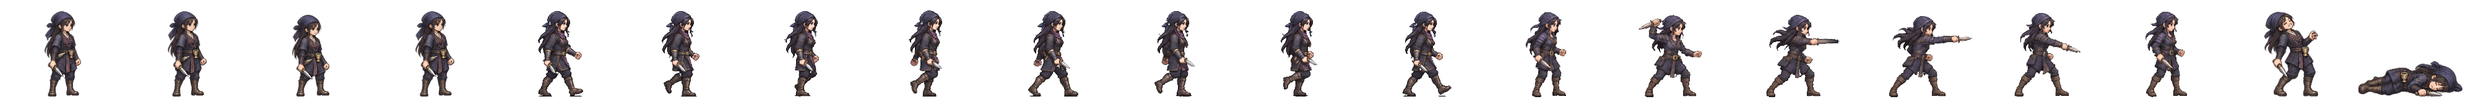
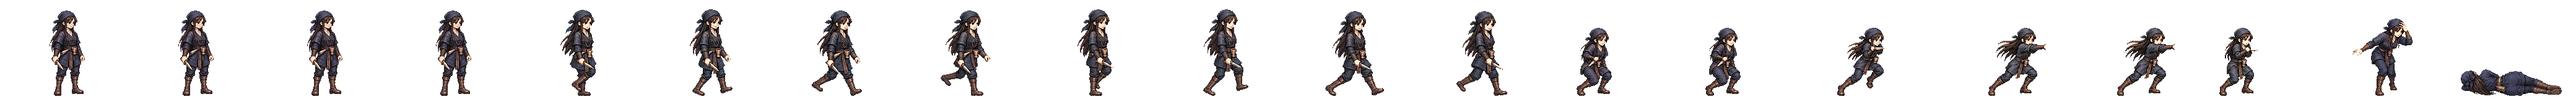
갠내 · 독무덤 · 연회 첩자 새 전투 띠를 게임에 (그림 API · 단검 · 찌르기 · 맞음 네 칸 · 개성 동작) · Codex 걷기 다시 판은 윗몸이 튀어 앞 판을 씀 · 인수인계
Claude-Session: https://claude.ai/code/session_01TRiuN7s6aDfSnaHxrkctmU

diff --git a/src/realm/data/spritePx.ts b/src/realm/data/spritePx.ts
@@ -1,3 +1,3 @@
 /** public/realm/anim-px/manifest.json 의 사본 — tools/sprite-normalize.mjs 가 만든다 (손으로 고치지 말 것). 칸 [가로, 세로] · feet = 발 줄(칸 위에서 y) · bodyPx = 서 있는 몸 키 */
 import { expandManifest } from './sprite-manifest.ts'
-export const SPRITE_PX: Readonly<Record<string, { readonly cell: readonly [number, number]; readonly feet: number; readonly bodyPx: number; readonly kind: 'general' | 'soldier' | 'folk' | 'crowd'; readonly cells: number }>> = expandManifest<{ readonly cell: readonly [number, number]; readonly feet: number; readonly bodyPx: number; readonly kind: 'general' | 'soldier' | 'folk' | 'crowd'; readonly cells: number }>([{"cell":[166,128],"feet":126,"bodyPx":124,"kind":"soldier","cells":20},{"cell":[116,128],"feet":126,"bodyPx":117,"kind":"soldier","cells":20},{"cell":[127,128],"feet":126,"bodyPx":116,"kind":"soldier","cells":20},{"cell":[269,128],"feet":126,"bodyPx":126,"kind":"soldier","cells":20},{"cell":[503,128],"feet":126,"bodyPx":127,"kind":"soldier","cells":20},{"cell":[614,128],"feet":126,"bodyPx":126,"kind":"soldier","cells":20},{"cell":[200,160],"feet":156,"bodyPx":138,"kind":"general","cells":20},{"cell":[208,160],"feet":155,"bodyPx":138,"kind":"general","cells":20},{"cell":[208,160],"feet":154,"bodyPx":138,"kind":"general","cells":20},{"cell":[304,160],"feet":155,"bodyPx":135,"kind":"general","cells":20},{"cell":[184,160],"feet":156,"bodyPx":138,"kind":"general","cells":20},{"cell":[208,160],"feet":154,"bodyPx":136,"kind":"general","cells":20},{"cell":[232,160],"feet":156,"bodyPx":138,"kind":"general","cells":20},{"cell":[208,160],"feet":156,"bodyPx":138,"kind":"general","cells":20},{"cell":[168,160],"feet":156,"bodyPx":124,"kind":"general","cells":20},{"cell":[216,160],"feet":156,"bodyPx":130,"kind":"general","cells":20},{"cell":[200,160],"feet":156,"bodyPx":116,"kind":"general","cells":20},{"cell":[192,160],"feet":156,"bodyPx":138,"kind":"general","cells":20},{"cell":[208,160],"feet":154,"bodyPx":135,"kind":"general","cells":20},{"cell":[280,160],"feet":156,"bodyPx":138,"kind":"general","cells":20},{"cell":[232,160],"feet":156,"bodyPx":134,"kind":"general","cells":20},{"cell":[144,160],"feet":156,"bodyPx":70,"kind":"general","cells":20},{"cell":[208,160],"feet":156,"bodyPx":70,"kind":"general","cells":20},{"cell":[192,160],"feet":156,"bodyPx":70,"kind":"general","cells":20},{"cell":[240,160],"feet":155,"bodyPx":138,"kind":"general","cells":20},{"cell":[160,160],"feet":156,"bodyPx":135,"kind":"general","cells":20},{"cell":[192,160],"feet":156,"bodyPx":128,"kind":"general","cells":20},{"cell":[224,160],"feet":155,"bodyPx":138,"kind":"general","cells":20},{"cell":[216,160],"feet":156,"bodyPx":138,"kind":"general","cells":20},{"cell":[208,160],"feet":156,"bodyPx":134,"kind":"general","cells":20},{"cell":[208,160],"feet":154,"bodyPx":130,"kind":"general","cells":20},{"cell":[248,160],"feet":156,"bodyPx":138,"kind":"general","cells":20},{"cell":[248,160],"feet":155,"bodyPx":138,"kind":"general","cells":20},{"cell":[192,160],"feet":155,"bodyPx":138,"kind":"general","cells":20},{"cell":[192,160],"feet":156,"bodyPx":124,"kind":"general","cells":20},{"cell":[208,160],"feet":154,"bodyPx":131,"kind":"general","cells":20},{"cell":[256,160],"feet":156,"bodyPx":138,"kind":"general","cells":20},{"cell":[240,160],"feet":156,"bodyPx":138,"kind":"general","cells":20},{"cell":[232,160],"feet":156,"bodyPx":139,"kind":"general","cells":20},{"cell":[232,160],"feet":156,"bodyPx":73,"kind":"general","cells":20},{"cell":[208,160],"feet":154,"bodyPx":137,"kind":"general","cells":20},{"cell":[264,160],"feet":156,"bodyPx":138,"kind":"general","cells":20},{"cell":[224,160],"feet":156,"bodyPx":138,"kind":"general","cells":20},{"cell":[224,160],"feet":156,"bodyPx":128,"kind":"general","cells":20},{"cell":[176,160],"feet":156,"bodyPx":129,"kind":"general","cells":20},{"cell":[208,160],"feet":154,"bodyPx":139,"kind":"general","cells":20},{"cell":[232,160],"feet":155,"bodyPx":138,"kind":"general","cells":20},{"cell":[208,160],"feet":156,"bodyPx":132,"kind":"general","cells":20},{"cell":[184,160],"feet":156,"bodyPx":122,"kind":"general","cells":20},{"cell":[280,160],"feet":155,"bodyPx":133,"kind":"general","cells":20},{"cell":[176,160],"feet":156,"bodyPx":70,"kind":"general","cells":20},{"cell":[186,128],"feet":126,"bodyPx":127,"kind":"soldier","cells":20},{"cell":[298,128],"feet":126,"bodyPx":126,"kind":"soldier","cells":20},{"cell":[82,128],"feet":126,"bodyPx":114,"kind":"folk","cells":8},{"cell":[134,128],"feet":126,"bodyPx":119,"kind":"soldier","cells":20},{"cell":[380,128],"feet":126,"bodyPx":124,"kind":"soldier","cells":20},{"cell":[114,128],"feet":126,"bodyPx":115,"kind":"soldier","cells":20},{"cell":[122,128],"feet":126,"bodyPx":114,"kind":"soldier","cells":20},{"cell":[254,128],"feet":126,"bodyPx":128,"kind":"soldier","cells":20},{"cell":[438,128],"feet":126,"bodyPx":126,"kind":"soldier","cells":20},{"cell":[88,128],"feet":126,"bodyPx":113,"kind":"folk","cells":8},{"cell":[100,128],"feet":126,"bodyPx":115,"kind":"folk","cells":8},{"cell":[108,128],"feet":126,"bodyPx":115,"kind":"folk","cells":8},{"cell":[63,128],"feet":126,"bodyPx":113,"kind":"folk","cells":8},{"cell":[69,96],"feet":96,"bodyPx":96,"kind":"crowd","cells":1},{"cell":[54,96],"feet":96,"bodyPx":96,"kind":"crowd","cells":1},{"cell":[47,96],"feet":96,"bodyPx":96,"kind":"crowd","cells":1},{"cell":[49,96],"feet":96,"bodyPx":96,"kind":"crowd","cells":1},{"cell":[57,96],"feet":96,"bodyPx":96,"kind":"crowd","cells":1},{"cell":[55,96],"feet":96,"bodyPx":96,"kind":"crowd","cells":1},{"cell":[45,96],"feet":96,"bodyPx":96,"kind":"crowd","cells":1},{"cell":[53,96],"feet":96,"bodyPx":96,"kind":"crowd","cells":1},{"cell":[64,96],"feet":96,"bodyPx":96,"kind":"crowd","cells":1},{"cell":[184,160],"feet":156,"bodyPx":124,"kind":"general","cells":20},{"cell":[208,160],"feet":154,"bodyPx":134,"kind":"general","cells":20},{"cell":[224,160],"feet":156,"bodyPx":133,"kind":"general","cells":20},{"cell":[192,160],"feet":156,"bodyPx":135,"kind":"general","cells":20},{"cell":[184,160],"feet":156,"bodyPx":137,"kind":"general","cells":20},{"cell":[176,160],"feet":156,"bodyPx":130,"kind":"general","cells":20},{"cell":[216,160],"feet":156,"bodyPx":134,"kind":"general","cells":20},{"cell":[216,160],"feet":156,"bodyPx":132,"kind":"general","cells":20},{"cell":[288,160],"feet":156,"bodyPx":138,"kind":"general","cells":20},{"cell":[192,160],"feet":156,"bodyPx":118,"kind":"general","cells":20},{"cell":[208,160],"feet":154,"bodyPx":128,"kind":"general","cells":20},{"cell":[240,160],"feet":156,"bodyPx":128,"kind":"general","cells":20},{"cell":[184,160],"feet":156,"bodyPx":132,"kind":"general","cells":20},{"cell":[208,160],"feet":156,"bodyPx":123,"kind":"general","cells":20},{"cell":[176,160],"feet":156,"bodyPx":116,"kind":"general","cells":20},{"cell":[272,160],"feet":156,"bodyPx":138,"kind":"general","cells":20},{"cell":[176,160],"feet":156,"bodyPx":138,"kind":"general","cells":20},{"cell":[176,160],"feet":156,"bodyPx":122,"kind":"general","cells":20},{"cell":[232,160],"feet":156,"bodyPx":127,"kind":"general","cells":20},{"cell":[184,160],"feet":156,"bodyPx":134,"kind":"general","cells":20},{"cell":[168,160],"feet":156,"bodyPx":138,"kind":"general","cells":20},{"cell":[176,160],"feet":156,"bodyPx":137,"kind":"general","cells":20},{"cell":[184,160],"feet":156,"bodyPx":133,"kind":"general","cells":20}],[["axe",0],["bandit-chief",1],["bandit-club",2],["boat",3],["bow",4],["crossbow",5],["gen-adogan",6],["gen-alpyeong",7],["gen-ara",8],["gen-areum",8],["gen-aryeong",9],["gen-bakdal",8],["gen-baram",8],["gen-bdanbi",10],["gen-beom",11],["gen-beombal",8],["gen-beomi",8],["gen-bira",12],["gen-biryu",13],["gen-budeul",8],["gen-byeol",8],["gen-daemusin",14],["gen-daeso",15],["gen-dallae2",10],["gen-dalli",8],["gen-damul",16],["gen-danbi",8],["gen-dangung",17],["gen-darae",18],["gen-dokmudeom",7],["gen-duman",19],["gen-eomni",8],["gen-eureum",20],["gen-g-bow",21],["gen-g-spear",22],["gen-g-sword",23],["gen-gaennae",6],["gen-gamsil",24],["gen-gaon",25],["gen-geota",13],["gen-geumbawi",10],["gen-geumha",26],["gen-goeun",13],["gen-gom",27],["gen-gomok",13],["gen-gureum",8],["gen-guryema",17],["gen-gwaeyu",12],["gen-haebi",8],["gen-haedal",6],["gen-haesol",8],["gen-halla",7],["gen-heo",8],["gen-hneoul",10],["gen-hogong",28],["gen-hojin",13],["gen-horselord",29],["gen-hwalmi",30],["gen-hyeokgeose",17],["gen-hyeopbo",6],["gen-irang",8],["gen-jibaekho",31],["gen-jinha",32],["gen-jita",33],["gen-jumong",34],["gen-keundol",7],["gen-maehwa",35],["gen-maenun",17],["gen-malgalgi",36],["gen-mari",37],["gen-maro",31],["gen-maryeo",13],["gen-mdallae",38],["gen-mir",6],["gen-mount",39],["gen-mulbeom",40],["gen-mulsae",40],["gen-musoe",28],["gen-noeul",8],["gen-nuri",41],["gen-ocheongan",42],["gen-odi",8],["gen-odogan",6],["gen-ogan",17],["gen-oi",43],["gen-olddaeso",20],["gen-onjo",44],["gen-pidogan",13],["gen-sagong",45],["gen-sdallae",6],["gen-sincheongan",28],["gen-singwigan",28],["gen-sinneoul",8],["gen-sobeol",46],["gen-soebi",6],["gen-soebo",47],["gen-soenun",45],["gen-sogeumbi",40],["gen-songbi",42],["gen-songyang",48],["gen-sori",8],["gen-soseono",49],["gen-suro",17],["gen-tahae",6],["gen-tneoul",8],["gen-w-bow",21],["gen-w-spear",50],["gen-waechief",13],["gen-wan",28],["gen-yeodogan",13],["gen-yucheongan",13],["gen-yusugan",31],["horse",51],["marine",52],["migrant",53],["militia",54],["pike",55],["pirate-captain",56],["pirate-sword",57],["shield",58],["spear",59],["villager-builder",60],["villager-farmer",61],["villager-porter",62],["villager-woman",63],["crowd-b1",64],["crowd-b2",65],["crowd-b3",66],["crowd-b4",67],["crowd-b5",68],["crowd-b6",69],["crowd-f1",64],["crowd-f2",69],["crowd-f3",70],["crowd-f4",71],["crowd-f5",64],["crowd-f6",72],["gen-dalbit",13],["gen-base-g-07-drunk-warrior",17],["gen-base-g-40-anya-adan",13],["gen-base-w-13-young-archer",8],["gen-base-g-03-sea-trader",37],["gen-base-w-10-pirate-captain",45],["gen-base-w-64-miri-dallae",45],["gen-base-g-41-goja-bau",37],["gen-base-g-42-dokro-garam",41],["gen-base-g-09-farmer-conscript",28],["gen-base-w-02-goguryeo-lady",28],["gen-base-w-17-mahan-pearl-diver",8],["gen-base-g-17-saro-isageum",47],["gen-base-g-18-daegaya-king",73],["gen-base-g-35-dabeol-dalgu",13],["gen-base-g-19-sabeol-veteran",28],["gen-base-w-23-usisan-whale-queen",8],["gen-base-g-36-gammun-gamdol",42],["gen-base-g-20-samul-sea-lord",36],["gen-base-g-37-eumjeup-jeup",10],["gen-base-g-38-chopal-palmae",17],["gen-base-w-75-daegaya-soemoe",17],["gen-base-g-45-dabeol-deulgae",10],["gen-base-g-04-jinhan-giant",13],["gen-base-g-08-veteran",13],["gen-base-w-18-jinhan-salt-widow",8],["gen-base-w-12-court-dancer",74],["gen-base-w-83-gyeonji-beodeul",75],["gen-base-w-05-baekje-queen",76],["gen-base-w-21-baekje-court-dancer",10],["gen-base-g-01-master-smith",77],["gen-base-g-93-jomun-solgae",78],["gen-base-g-57-bihwa-neup",37],["gen-base-w-72-eumjeup-beol",8],["gen-base-w-102-garak-dana",45],["gen-base-g-68-baekje-onnuri",13],["gen-base-w-27-mokji-jinha",6],["gen-base-g-22-ungcheon-gomnae",6],["gen-base-g-23-sangdang-soedal",13],["gen-base-g-24-wansan-onsan",6],["gen-base-g-25-balla-keunmoe",28],["gen-base-g-61-heomcheuk-bawi",28],["gen-base-g-88-wander-soeul",42],["gen-base-w-14-feast-spy",6],["gen-base-g-12-silla-youth",79],["gen-base-w-08-mahan-warrior",8],["gen-base-g-62-beonye-hanul",37],["gen-base-g-63-heomcheuk-beogeum",13],["gen-base-g-84-wander-seoneul",13],["gen-base-w-50-siljik-mulga",28],["gen-base-g-46-uga-nureongso",28],["gen-base-w-80-usan-gangchi",45],["gen-base-g-47-guga-sanyanggae",28],["gen-base-w-76-gampyeong-baetsagong",8],["gen-base-g-05-mahan-chieftain",80],["gen-base-g-58-usan-uhae",13],["gen-base-g-27-maek-maekdol",13],["gen-base-w-53-hwanna-gabi",45],["gen-base-w-29-golpo-janmul",31],["gen-base-g-53-baekje-haeru",6],["gen-base-w-71-yeonna-neoul",8],["gen-base-w-79-yangmaek-solmae",8],["gen-base-w-34-chopal-deulme",8],["gen-base-g-44-maga-malgup",81],["gen-base-w-31-dabeol-dalbit",45],["gen-base-g-51-biryuna-mulgyeol",42],["gen-base-g-48-gwanna-musoe",13],["gen-base-g-32-uga-sodu",12],["gen-base-g-49-goguryeo-sona",82],["gen-base-g-30-gwanna-soemoe",42],["gen-base-g-52-tamna-oreum",10],["gen-base-g-29-yeonna-myeongsol",34],["gen-base-w-56-dongokjeo-sogeum",74],["gen-base-g-54-mokji-mahan",12],["gen-base-g-33-jeoga-metdol",17],["gen-base-w-36-baekje-maena",8],["gen-base-w-38-sangdang-bulmae",6],["gen-base-w-39-gosaburi-galmae",8],["gen-base-w-40-mujin-munui",47],["gen-base-w-41-hwanna-beodeul",83],["gen-base-w-43-uga-nuri",36],["gen-base-w-45-tamna-oreumbi",10],["gen-base-g-60-golbeol-golgae",10],["gen-base-g-61-apdok-ap",28],["gen-base-g-62-gammun-gamnamu",6],["gen-base-g-63-chopal-yeoul",31],["gen-base-g-64-michuhol-sogeumkkun",37],["gen-base-g-65-sangdang-soemangchi",42],["gen-base-g-66-geonma-malbalgup",84],["gen-base-g-67-gosaburi-buri",85],["gen-base-g-68-mujin-bitgoeul",10],["gen-base-g-69-goryong-yong",42],["gen-base-g-70-siljik-pado",37],["gen-base-w-81-byeokjin-byeolbit",8],["gen-base-w-46-geonma-maru",8],["gen-base-w-48-mujin-mudeung",8],["gen-base-g-26-gampyeong-gaetbeol",12],["gen-base-g-60-eupcha-hangyeol",86],["gen-base-g-15-shaman-man",28],["gen-base-g-85-wander-ure",31],["gen-base-g-43-hwanna-amnok",13],["gen-base-g-50-bullae-gwaha",76],["gen-base-g-55-saro-bakdal",13],["gen-base-g-56-haseulla-gwahama",6],["gen-base-w-06-buyeo-huntress",40],["gen-base-w-22-dongye-tiger-huntress",8],["gen-base-w-25-bihwa-priestess",28],["gen-base-w-24-apdok-queen",10],["gen-base-w-61-iseo-sinae",13],["gen-base-w-26-iseo-tomboy-general",8],["gen-base-g-59-yangmaek-maekson",87],["gen-aw1-haebi",42],["gen-aw1-soseono",88],["gen-aw1-gamsil",10],["gen-aw1-mir",89],["gen-aw1-dangung",6],["gen-aw1-ara",42],["gen-aw1-jumong",90],["gen-aw1-onjo",91],["gen-aw1-base-w-83-gyeonji-beodeul",17],["gen-aw1-heo",41],["gen-aw1-base-g-38-chopal-palmae",6],["gen-aw1-base-w-25-bihwa-priestess",92],["gen-aw1-sori",93],["gen-aw1-gomok",6],["gen-aw1-irang",17],["gen-aw1-budeul",93],["gen-aw1-gom",37],["gen-aw1-sdallae",6],["gen-aw1-base-w-13-young-archer",6],["gen-aw1-base-w-36-baekje-maena",94],["gen-aw1-base-g-09-farmer-conscript",41],["gen-aw1-base-w-02-goguryeo-lady",95],["gen-aw1-haedal",10],["gen-aw1-hogong",6],["gen-aw1-maehwa",89],["gen-aw1-base-w-06-buyeo-huntress",12],["gen-aw1-base-w-08-mahan-warrior",42],["gen-aw1-base-w-29-golpo-janmul",42],["gen-aw1-base-w-31-dabeol-dalbit",17],["gen-aw1-base-w-38-sangdang-bulmae",93],["gen-aw1-bira",28],["gen-aw1-base-w-53-hwanna-gabi",93],["gen-aw1-base-w-56-dongokjeo-sogeum",89],["gen-aw1-base-w-72-eumjeup-beol",17],["gen-aw1-bdanbi",93],["gen-aw1-beom",10],["gen-aw1-beombal",10],["gen-aw1-byeol",17],["gen-aw1-dalli",89],["gen-aw1-malgalgi",31],["gen-aw1-sincheongan",28]])
+export const SPRITE_PX: Readonly<Record<string, { readonly cell: readonly [number, number]; readonly feet: number; readonly bodyPx: number; readonly kind: 'general' | 'soldier' | 'folk' | 'crowd'; readonly cells: number }>> = expandManifest<{ readonly cell: readonly [number, number]; readonly feet: number; readonly bodyPx: number; readonly kind: 'general' | 'soldier' | 'folk' | 'crowd'; readonly cells: number }>([{"cell":[166,128],"feet":126,"bodyPx":124,"kind":"soldier","cells":20},{"cell":[116,128],"feet":126,"bodyPx":117,"kind":"soldier","cells":20},{"cell":[127,128],"feet":126,"bodyPx":116,"kind":"soldier","cells":20},{"cell":[269,128],"feet":126,"bodyPx":126,"kind":"soldier","cells":20},{"cell":[503,128],"feet":126,"bodyPx":127,"kind":"soldier","cells":20},{"cell":[614,128],"feet":126,"bodyPx":126,"kind":"soldier","cells":20},{"cell":[200,160],"feet":156,"bodyPx":138,"kind":"general","cells":20},{"cell":[208,160],"feet":155,"bodyPx":138,"kind":"general","cells":20},{"cell":[208,160],"feet":154,"bodyPx":138,"kind":"general","cells":20},{"cell":[304,160],"feet":155,"bodyPx":135,"kind":"general","cells":20},{"cell":[184,160],"feet":156,"bodyPx":138,"kind":"general","cells":20},{"cell":[208,160],"feet":154,"bodyPx":136,"kind":"general","cells":20},{"cell":[232,160],"feet":156,"bodyPx":138,"kind":"general","cells":20},{"cell":[208,160],"feet":156,"bodyPx":138,"kind":"general","cells":20},{"cell":[168,160],"feet":156,"bodyPx":124,"kind":"general","cells":20},{"cell":[216,160],"feet":156,"bodyPx":130,"kind":"general","cells":20},{"cell":[200,160],"feet":156,"bodyPx":116,"kind":"general","cells":20},{"cell":[192,160],"feet":156,"bodyPx":138,"kind":"general","cells":20},{"cell":[208,160],"feet":154,"bodyPx":135,"kind":"general","cells":20},{"cell":[280,160],"feet":156,"bodyPx":138,"kind":"general","cells":20},{"cell":[232,160],"feet":156,"bodyPx":134,"kind":"general","cells":20},{"cell":[144,160],"feet":156,"bodyPx":70,"kind":"general","cells":20},{"cell":[208,160],"feet":156,"bodyPx":70,"kind":"general","cells":20},{"cell":[192,160],"feet":156,"bodyPx":70,"kind":"general","cells":20},{"cell":[240,160],"feet":155,"bodyPx":138,"kind":"general","cells":20},{"cell":[160,160],"feet":156,"bodyPx":135,"kind":"general","cells":20},{"cell":[192,160],"feet":156,"bodyPx":128,"kind":"general","cells":20},{"cell":[224,160],"feet":155,"bodyPx":138,"kind":"general","cells":20},{"cell":[216,160],"feet":156,"bodyPx":138,"kind":"general","cells":20},{"cell":[208,160],"feet":156,"bodyPx":134,"kind":"general","cells":20},{"cell":[208,160],"feet":154,"bodyPx":130,"kind":"general","cells":20},{"cell":[248,160],"feet":156,"bodyPx":138,"kind":"general","cells":20},{"cell":[248,160],"feet":155,"bodyPx":138,"kind":"general","cells":20},{"cell":[192,160],"feet":155,"bodyPx":138,"kind":"general","cells":20},{"cell":[192,160],"feet":156,"bodyPx":124,"kind":"general","cells":20},{"cell":[208,160],"feet":154,"bodyPx":131,"kind":"general","cells":20},{"cell":[256,160],"feet":156,"bodyPx":138,"kind":"general","cells":20},{"cell":[240,160],"feet":156,"bodyPx":138,"kind":"general","cells":20},{"cell":[232,160],"feet":156,"bodyPx":139,"kind":"general","cells":20},{"cell":[232,160],"feet":156,"bodyPx":73,"kind":"general","cells":20},{"cell":[208,160],"feet":154,"bodyPx":137,"kind":"general","cells":20},{"cell":[264,160],"feet":156,"bodyPx":138,"kind":"general","cells":20},{"cell":[224,160],"feet":156,"bodyPx":138,"kind":"general","cells":20},{"cell":[224,160],"feet":156,"bodyPx":128,"kind":"general","cells":20},{"cell":[176,160],"feet":156,"bodyPx":129,"kind":"general","cells":20},{"cell":[208,160],"feet":154,"bodyPx":139,"kind":"general","cells":20},{"cell":[232,160],"feet":155,"bodyPx":138,"kind":"general","cells":20},{"cell":[208,160],"feet":156,"bodyPx":132,"kind":"general","cells":20},{"cell":[184,160],"feet":156,"bodyPx":122,"kind":"general","cells":20},{"cell":[280,160],"feet":155,"bodyPx":133,"kind":"general","cells":20},{"cell":[176,160],"feet":156,"bodyPx":70,"kind":"general","cells":20},{"cell":[186,128],"feet":126,"bodyPx":127,"kind":"soldier","cells":20},{"cell":[298,128],"feet":126,"bodyPx":126,"kind":"soldier","cells":20},{"cell":[82,128],"feet":126,"bodyPx":114,"kind":"folk","cells":8},{"cell":[134,128],"feet":126,"bodyPx":119,"kind":"soldier","cells":20},{"cell":[380,128],"feet":126,"bodyPx":124,"kind":"soldier","cells":20},{"cell":[114,128],"feet":126,"bodyPx":115,"kind":"soldier","cells":20},{"cell":[122,128],"feet":126,"bodyPx":114,"kind":"soldier","cells":20},{"cell":[254,128],"feet":126,"bodyPx":128,"kind":"soldier","cells":20},{"cell":[438,128],"feet":126,"bodyPx":126,"kind":"soldier","cells":20},{"cell":[88,128],"feet":126,"bodyPx":113,"kind":"folk","cells":8},{"cell":[100,128],"feet":126,"bodyPx":115,"kind":"folk","cells":8},{"cell":[108,128],"feet":126,"bodyPx":115,"kind":"folk","cells":8},{"cell":[63,128],"feet":126,"bodyPx":113,"kind":"folk","cells":8},{"cell":[69,96],"feet":96,"bodyPx":96,"kind":"crowd","cells":1},{"cell":[54,96],"feet":96,"bodyPx":96,"kind":"crowd","cells":1},{"cell":[47,96],"feet":96,"bodyPx":96,"kind":"crowd","cells":1},{"cell":[49,96],"feet":96,"bodyPx":96,"kind":"crowd","cells":1},{"cell":[57,96],"feet":96,"bodyPx":96,"kind":"crowd","cells":1},{"cell":[55,96],"feet":96,"bodyPx":96,"kind":"crowd","cells":1},{"cell":[45,96],"feet":96,"bodyPx":96,"kind":"crowd","cells":1},{"cell":[53,96],"feet":96,"bodyPx":96,"kind":"crowd","cells":1},{"cell":[64,96],"feet":96,"bodyPx":96,"kind":"crowd","cells":1},{"cell":[184,160],"feet":156,"bodyPx":124,"kind":"general","cells":20},{"cell":[208,160],"feet":154,"bodyPx":134,"kind":"general","cells":20},{"cell":[224,160],"feet":156,"bodyPx":133,"kind":"general","cells":20},{"cell":[192,160],"feet":156,"bodyPx":135,"kind":"general","cells":20},{"cell":[184,160],"feet":156,"bodyPx":137,"kind":"general","cells":20},{"cell":[176,160],"feet":156,"bodyPx":130,"kind":"general","cells":20},{"cell":[216,160],"feet":156,"bodyPx":134,"kind":"general","cells":20},{"cell":[216,160],"feet":156,"bodyPx":132,"kind":"general","cells":20},{"cell":[288,160],"feet":156,"bodyPx":138,"kind":"general","cells":20},{"cell":[192,160],"feet":156,"bodyPx":118,"kind":"general","cells":20},{"cell":[208,160],"feet":154,"bodyPx":128,"kind":"general","cells":20},{"cell":[240,160],"feet":156,"bodyPx":128,"kind":"general","cells":20},{"cell":[184,160],"feet":156,"bodyPx":132,"kind":"general","cells":20},{"cell":[208,160],"feet":156,"bodyPx":123,"kind":"general","cells":20},{"cell":[176,160],"feet":156,"bodyPx":116,"kind":"general","cells":20},{"cell":[272,160],"feet":156,"bodyPx":138,"kind":"general","cells":20},{"cell":[176,160],"feet":156,"bodyPx":138,"kind":"general","cells":20},{"cell":[176,160],"feet":156,"bodyPx":122,"kind":"general","cells":20},{"cell":[232,160],"feet":156,"bodyPx":127,"kind":"general","cells":20},{"cell":[184,160],"feet":156,"bodyPx":134,"kind":"general","cells":20},{"cell":[168,160],"feet":156,"bodyPx":138,"kind":"general","cells":20},{"cell":[176,160],"feet":156,"bodyPx":137,"kind":"general","cells":20},{"cell":[184,160],"feet":156,"bodyPx":133,"kind":"general","cells":20}],[["axe",0],["bandit-chief",1],["bandit-club",2],["boat",3],["bow",4],["crossbow",5],["gen-adogan",6],["gen-alpyeong",7],["gen-ara",8],["gen-areum",8],["gen-aryeong",9],["gen-bakdal",8],["gen-baram",8],["gen-bdanbi",10],["gen-beom",11],["gen-beombal",8],["gen-beomi",8],["gen-bira",12],["gen-biryu",13],["gen-budeul",8],["gen-byeol",8],["gen-daemusin",14],["gen-daeso",15],["gen-dallae2",10],["gen-dalli",8],["gen-damul",16],["gen-danbi",8],["gen-dangung",17],["gen-darae",18],["gen-dokmudeom",8],["gen-duman",19],["gen-eomni",8],["gen-eureum",20],["gen-g-bow",21],["gen-g-spear",22],["gen-g-sword",23],["gen-gaennae",8],["gen-gamsil",24],["gen-gaon",25],["gen-geota",13],["gen-geumbawi",10],["gen-geumha",26],["gen-goeun",13],["gen-gom",27],["gen-gomok",13],["gen-gureum",8],["gen-guryema",17],["gen-gwaeyu",12],["gen-haebi",8],["gen-haedal",6],["gen-haesol",8],["gen-halla",7],["gen-heo",8],["gen-hneoul",10],["gen-hogong",28],["gen-hojin",13],["gen-horselord",29],["gen-hwalmi",30],["gen-hyeokgeose",17],["gen-hyeopbo",6],["gen-irang",8],["gen-jibaekho",31],["gen-jinha",32],["gen-jita",33],["gen-jumong",34],["gen-keundol",7],["gen-maehwa",35],["gen-maenun",17],["gen-malgalgi",36],["gen-mari",37],["gen-maro",31],["gen-maryeo",13],["gen-mdallae",38],["gen-mir",6],["gen-mount",39],["gen-mulbeom",40],["gen-mulsae",40],["gen-musoe",28],["gen-noeul",8],["gen-nuri",41],["gen-ocheongan",42],["gen-odi",8],["gen-odogan",6],["gen-ogan",17],["gen-oi",43],["gen-olddaeso",20],["gen-onjo",44],["gen-pidogan",13],["gen-sagong",45],["gen-sdallae",6],["gen-sincheongan",28],["gen-singwigan",28],["gen-sinneoul",8],["gen-sobeol",46],["gen-soebi",6],["gen-soebo",47],["gen-soenun",45],["gen-sogeumbi",40],["gen-songbi",42],["gen-songyang",48],["gen-sori",8],["gen-soseono",49],["gen-suro",17],["gen-tahae",6],["gen-tneoul",8],["gen-w-bow",21],["gen-w-spear",50],["gen-waechief",13],["gen-wan",28],["gen-yeodogan",13],["gen-yucheongan",13],["gen-yusugan",31],["horse",51],["marine",52],["migrant",53],["militia",54],["pike",55],["pirate-captain",56],["pirate-sword",57],["shield",58],["spear",59],["villager-builder",60],["villager-farmer",61],["villager-porter",62],["villager-woman",63],["crowd-b1",64],["crowd-b2",65],["crowd-b3",66],["crowd-b4",67],["crowd-b5",68],["crowd-b6",69],["crowd-f1",64],["crowd-f2",69],["crowd-f3",70],["crowd-f4",71],["crowd-f5",64],["crowd-f6",72],["gen-dalbit",13],["gen-base-g-07-drunk-warrior",17],["gen-base-g-40-anya-adan",13],["gen-base-w-13-young-archer",8],["gen-base-g-03-sea-trader",37],["gen-base-w-10-pirate-captain",45],["gen-base-w-64-miri-dallae",45],["gen-base-g-41-goja-bau",37],["gen-base-g-42-dokro-garam",41],["gen-base-g-09-farmer-conscript",28],["gen-base-w-02-goguryeo-lady",28],["gen-base-w-17-mahan-pearl-diver",8],["gen-base-g-17-saro-isageum",47],["gen-base-g-18-daegaya-king",73],["gen-base-g-35-dabeol-dalgu",13],["gen-base-g-19-sabeol-veteran",28],["gen-base-w-23-usisan-whale-queen",8],["gen-base-g-36-gammun-gamdol",42],["gen-base-g-20-samul-sea-lord",36],["gen-base-g-37-eumjeup-jeup",10],["gen-base-g-38-chopal-palmae",17],["gen-base-w-75-daegaya-soemoe",17],["gen-base-g-45-dabeol-deulgae",10],["gen-base-g-04-jinhan-giant",13],["gen-base-g-08-veteran",13],["gen-base-w-18-jinhan-salt-widow",8],["gen-base-w-12-court-dancer",74],["gen-base-w-83-gyeonji-beodeul",75],["gen-base-w-05-baekje-queen",76],["gen-base-w-21-baekje-court-dancer",10],["gen-base-g-01-master-smith",77],["gen-base-g-93-jomun-solgae",78],["gen-base-g-57-bihwa-neup",37],["gen-base-w-72-eumjeup-beol",8],["gen-base-w-102-garak-dana",45],["gen-base-g-68-baekje-onnuri",13],["gen-base-w-27-mokji-jinha",6],["gen-base-g-22-ungcheon-gomnae",6],["gen-base-g-23-sangdang-soedal",13],["gen-base-g-24-wansan-onsan",6],["gen-base-g-25-balla-keunmoe",28],["gen-base-g-61-heomcheuk-bawi",28],["gen-base-g-88-wander-soeul",42],["gen-base-w-14-feast-spy",8],["gen-base-g-12-silla-youth",79],["gen-base-w-08-mahan-warrior",8],["gen-base-g-62-beonye-hanul",37],["gen-base-g-63-heomcheuk-beogeum",13],["gen-base-g-84-wander-seoneul",13],["gen-base-w-50-siljik-mulga",28],["gen-base-g-46-uga-nureongso",28],["gen-base-w-80-usan-gangchi",45],["gen-base-g-47-guga-sanyanggae",28],["gen-base-w-76-gampyeong-baetsagong",8],["gen-base-g-05-mahan-chieftain",80],["gen-base-g-58-usan-uhae",13],["gen-base-g-27-maek-maekdol",13],["gen-base-w-53-hwanna-gabi",45],["gen-base-w-29-golpo-janmul",31],["gen-base-g-53-baekje-haeru",6],["gen-base-w-71-yeonna-neoul",8],["gen-base-w-79-yangmaek-solmae",8],["gen-base-w-34-chopal-deulme",8],["gen-base-g-44-maga-malgup",81],["gen-base-w-31-dabeol-dalbit",45],["gen-base-g-51-biryuna-mulgyeol",42],["gen-base-g-48-gwanna-musoe",13],["gen-base-g-32-uga-sodu",12],["gen-base-g-49-goguryeo-sona",82],["gen-base-g-30-gwanna-soemoe",42],["gen-base-g-52-tamna-oreum",10],["gen-base-g-29-yeonna-myeongsol",34],["gen-base-w-56-dongokjeo-sogeum",74],["gen-base-g-54-mokji-mahan",12],["gen-base-g-33-jeoga-metdol",17],["gen-base-w-36-baekje-maena",8],["gen-base-w-38-sangdang-bulmae",6],["gen-base-w-39-gosaburi-galmae",8],["gen-base-w-40-mujin-munui",47],["gen-base-w-41-hwanna-beodeul",83],["gen-base-w-43-uga-nuri",36],["gen-base-w-45-tamna-oreumbi",10],["gen-base-g-60-golbeol-golgae",10],["gen-base-g-61-apdok-ap",28],["gen-base-g-62-gammun-gamnamu",6],["gen-base-g-63-chopal-yeoul",31],["gen-base-g-64-michuhol-sogeumkkun",37],["gen-base-g-65-sangdang-soemangchi",42],["gen-base-g-66-geonma-malbalgup",84],["gen-base-g-67-gosaburi-buri",85],["gen-base-g-68-mujin-bitgoeul",10],["gen-base-g-69-goryong-yong",42],["gen-base-g-70-siljik-pado",37],["gen-base-w-81-byeokjin-byeolbit",8],["gen-base-w-46-geonma-maru",8],["gen-base-w-48-mujin-mudeung",8],["gen-base-g-26-gampyeong-gaetbeol",12],["gen-base-g-60-eupcha-hangyeol",86],["gen-base-g-15-shaman-man",28],["gen-base-g-85-wander-ure",31],["gen-base-g-43-hwanna-amnok",13],["gen-base-g-50-bullae-gwaha",76],["gen-base-g-55-saro-bakdal",13],["gen-base-g-56-haseulla-gwahama",6],["gen-base-w-06-buyeo-huntress",40],["gen-base-w-22-dongye-tiger-huntress",8],["gen-base-w-25-bihwa-priestess",28],["gen-base-w-24-apdok-queen",10],["gen-base-w-61-iseo-sinae",13],["gen-base-w-26-iseo-tomboy-general",8],["gen-base-g-59-yangmaek-maekson",87],["gen-aw1-haebi",42],["gen-aw1-soseono",88],["gen-aw1-gamsil",10],["gen-aw1-mir",89],["gen-aw1-dangung",6],["gen-aw1-ara",42],["gen-aw1-jumong",90],["gen-aw1-onjo",91],["gen-aw1-base-w-83-gyeonji-beodeul",17],["gen-aw1-heo",41],["gen-aw1-base-g-38-chopal-palmae",6],["gen-aw1-base-w-25-bihwa-priestess",92],["gen-aw1-sori",93],["gen-aw1-gomok",6],["gen-aw1-irang",17],["gen-aw1-budeul",93],["gen-aw1-gom",37],["gen-aw1-sdallae",6],["gen-aw1-base-w-13-young-archer",6],["gen-aw1-base-w-36-baekje-maena",94],["gen-aw1-base-g-09-farmer-conscript",41],["gen-aw1-base-w-02-goguryeo-lady",95],["gen-aw1-haedal",10],["gen-aw1-hogong",6],["gen-aw1-maehwa",89],["gen-aw1-base-w-06-buyeo-huntress",12],["gen-aw1-base-w-08-mahan-warrior",42],["gen-aw1-base-w-29-golpo-janmul",42],["gen-aw1-base-w-31-dabeol-dalbit",17],["gen-aw1-base-w-38-sangdang-bulmae",93],["gen-aw1-bira",28],["gen-aw1-base-w-53-hwanna-gabi",93],["gen-aw1-base-w-56-dongokjeo-sogeum",89],["gen-aw1-base-w-72-eumjeup-beol",17],["gen-aw1-bdanbi",93],["gen-aw1-beom",10],["gen-aw1-beombal",10],["gen-aw1-byeol",17],["gen-aw1-dalli",89],["gen-aw1-malgalgi",31],["gen-aw1-sincheongan",28]])

diff --git a/src/duel/view.ts b/src/duel/view.ts
@@ -100,7 +100,7 @@ const crowdFront = [1, 2, 3, 4, 5, 6].map((i) => img(`realm/duel/crowd/b${i}.png
 const crowdReady = (set: HTMLImageElement[]): boolean => set.every((im) => im.complete && im.naturalWidth > 0)
 const pxMode = cfg.px !== false && params.get('px') !== '0'
 /** 겨루기 전용 옛 띠(duel/sprites) 대신 열전과 같은 도트 띠(anim-px)를 쓰는 장수 — 두 판에서 같은 모습 · 서기 계획·쓰러지는 칸도 같다 (11-23 범 · 매화 · 달빛 · 11-24 해비 · 아룸) */
-const PX_DUEL: ReadonlySet<string> = new Set(['beom', 'maehwa', 'base-w-31-dabeol-dalbit', 'haebi', 'areum', 'base-w-13-young-archer', 'base-w-10-pirate-captain', 'base-w-17-mahan-pearl-diver', 'base-w-06-buyeo-huntress', 'base-w-64-miri-dallae', 'ara', 'base-w-22-dongye-tiger-huntress', 'noeul', 'sagong', 'sinneoul', 'heo', 'base-w-08-mahan-warrior', 'base-w-23-usisan-whale-queen', 'base-w-26-iseo-tomboy-general', 'base-w-72-eumjeup-beol', 'tneoul', 'odi', 'base-w-76-gampyeong-baetsagong', 'base-w-34-chopal-deulme', 'base-w-102-garak-dana', 'base-w-36-baekje-maena', 'base-w-56-dongokjeo-sogeum', 'budeul', 'base-w-53-hwanna-gabi', 'base-w-18-jinhan-salt-widow', 'beombal', 'irang', 'sogeumbi', 'baram', 'byeol', 'base-w-71-yeonna-neoul', 'base-w-39-gosaburi-galmae', 'base-w-41-hwanna-beodeul', 'base-w-79-yangmaek-solmae', 'base-w-46-geonma-maru', 'base-w-48-mujin-mudeung', 'base-w-80-usan-gangchi', 'base-w-81-byeokjin-byeolbit', 'beomi', 'danbi', 'dalli', 'gureum', 'haesol', 'soenun', 'eomni', 'mulbeom', 'mulsae', 'bakdal', 'darae', 'sori', 'base-w-12-court-dancer', 'hwalmi'])
+const PX_DUEL: ReadonlySet<string> = new Set(['beom', 'maehwa', 'base-w-31-dabeol-dalbit', 'haebi', 'areum', 'base-w-13-young-archer', 'base-w-10-pirate-captain', 'base-w-17-mahan-pearl-diver', 'base-w-06-buyeo-huntress', 'base-w-64-miri-dallae', 'ara', 'base-w-22-dongye-tiger-huntress', 'noeul', 'sagong', 'sinneoul', 'heo', 'base-w-08-mahan-warrior', 'base-w-23-usisan-whale-queen', 'base-w-26-iseo-tomboy-general', 'base-w-72-eumjeup-beol', 'tneoul', 'odi', 'base-w-76-gampyeong-baetsagong', 'base-w-34-chopal-deulme', 'base-w-102-garak-dana', 'base-w-36-baekje-maena', 'base-w-56-dongokjeo-sogeum', 'budeul', 'base-w-53-hwanna-gabi', 'base-w-18-jinhan-salt-widow', 'beombal', 'irang', 'sogeumbi', 'baram', 'byeol', 'base-w-71-yeonna-neoul', 'base-w-39-gosaburi-galmae', 'base-w-41-hwanna-beodeul', 'base-w-79-yangmaek-solmae', 'base-w-46-geonma-maru', 'base-w-48-mujin-mudeung', 'base-w-80-usan-gangchi', 'base-w-81-byeokjin-byeolbit', 'beomi', 'danbi', 'dalli', 'gureum', 'haesol', 'soenun', 'eomni', 'mulbeom', 'mulsae', 'bakdal', 'darae', 'sori', 'base-w-12-court-dancer', 'hwalmi', 'gaennae', 'dokmudeom', 'base-w-14-feast-spy'])
 /** 띠 그림 — 기본은 anim-px(도트 규격) 먼저, 없으면 옛 띠로 (img 의 onerror 가 갈아 끼운다) */
 const strip = (s: string): HTMLImageElement => pxMode
   ? DUEL_ATLASES[s] !== undefined && !PX_DUEL.has(s) ? img(`realm/duel/sprites/gen-${s}.png`, `realm/anim-px/gen-${s}.png`)

diff --git a/src/tune/params.ts b/src/tune/params.ts
@@ -1480,6 +1480,9 @@ export const HAEBI_IDLE = {
     sori: { cells: 38, base: [0, 1], hold: 2.4, fall: [18, 20, 21, 19], attack: { cells: [22, 23, 24, 25, 26, 27, 28, 29], times: [.09, .08, .11, .12, .12, .08, .08, .12], hit: 3 }, hurt: [34, 35], rise: [36, 37], xGeom: { h: 224, root: 92, foot: 216 } },
     'base-w-12-court-dancer': { cells: 38, base: [0, 1], hold: 2.4, fall: [18, 20, 21, 19], attack: { cells: [22, 23, 24, 25, 26, 27, 28, 29], times: [.09, .08, .11, .12, .12, .08, .08, .12], hit: 3 }, hurt: [34, 35], rise: [36, 37], xGeom: { h: 224, root: 92, foot: 216 } },
     hwalmi: { cells: 30, base: [0, 1], hold: 2.4, fall: [18, 20, 21, 19], quirk: [22, 23, 24, 25], quirkTimes: [.28, .3, .42, .25], hurt: [26, 27], rise: [28, 29] },
+    gaennae: { cells: 38, base: [0, 1], hold: 2.4, fall: [18, 20, 21, 19], attack: { cells: [22, 23, 24, 25, 26, 27, 28, 29], times: [.09, .08, .11, .12, .12, .08, .08, .12], hit: 3 }, hurt: [34, 35], rise: [36, 37], xGeom: { h: 224, root: 92, foot: 216 } },
+    dokmudeom: { cells: 38, base: [0, 1], hold: 2.4, fall: [18, 20, 21, 19], attack: { cells: [22, 23, 24, 25, 26, 27, 28, 29], times: [.09, .08, .11, .12, .12, .08, .08, .12], hit: 3 }, hurt: [34, 35], rise: [36, 37], xGeom: { h: 224, root: 92, foot: 216 } },
+    'base-w-14-feast-spy': { cells: 38, base: [0, 1], hold: 2.4, fall: [18, 20, 21, 19], attack: { cells: [22, 23, 24, 25, 26, 27, 28, 29], times: [.09, .08, .11, .12, .12, .08, .08, .12], hit: 3 }, hurt: [34, 35], rise: [36, 37], xGeom: { h: 224, root: 92, foot: 216 } },
   },
 } as const
 export const HAEBI_ANIM = {

diff --git a/src/raid/hero-hd.ts b/src/raid/hero-hd.ts
@@ -28,7 +28,6 @@ export const HERO_HD: Readonly<Record<string, string>> = {
   'anim-px/gen-aw1-base-w-25-bihwa-priestess.png': 'anim-px/gen-aw1-base-w-25-bihwa-priestess_hd.png',
   'anim-px/gen-base-w-24-apdok-queen.png': 'anim-px/gen-base-w-24-apdok-queen_hd.png',
   'anim-px/gen-base-w-21-baekje-court-dancer.png': 'anim-px/gen-base-w-21-baekje-court-dancer_hd.png',
-  'anim-px/gen-base-w-14-feast-spy.png': 'anim-px/gen-base-w-14-feast-spy_hd.png',
   'anim-px/gen-aw1-base-w-13-young-archer.png': 'anim-px/gen-aw1-base-w-13-young-archer_hd.png',
   'anim-px/gen-aw1-base-w-08-mahan-warrior.png': 'anim-px/gen-aw1-base-w-08-mahan-warrior_hd.png',
   'anim-px/gen-base-w-05-baekje-queen.png': 'anim-px/gen-base-w-05-baekje-queen_hd.png',

diff --git a/tools/sprite-kit/anim-harness.py b/tools/sprite-kit/anim-harness.py
@@ -84,9 +84,9 @@ HEROES = {
     'baram': dict(strip='gen-baram', atk='stab', atk8=True, act=True, legacy=(('a', 2), ('a', 3), ('b', 1), ('b', 2)), cells8=[('a', 1), ('a', 2), ('a', 3), ('a', 4), ('b', 1), ('b', 2), ('a', 1), ('b', 4)]),   # 고사부리 바람(단검 · 가슴 M) · 11-24 새 단검 인형 찌르기(stab · 타격 a4) · 좁은 칸은 뿌리 앞 104 까지라 a4(108) 대신 버팀 b1(98) · b3 이 팔을 다시 뻗어 두 번 찌르듯 보여(독립 검수) 일곱째 칸은 낮은 겨눔 a1 · b1 머리칼의 자홍 점 여섯은 이웃 색으로 메움(px)
     'sori': dict(hit=True, strip='gen-sori', atk='stab', atk8=True, act=True, legacy=(('a', 2), ('a', 3), ('b', 1), ('b', 2)), cells8=[('a', 1), ('a', 2), ('a', 3), ('a', 4), ('b', 1), ('b', 2), ('a', 1), ('b', 4)]),   # 소리(단검 · 가슴 M · 등에 활) · 열한째 묶음(API) 새 단검 인형 찌르기(stab)
     'gungmu': dict(hit=True, strip='gen-base-w-12-court-dancer', atk='stab', atk8=True, act=True, legacy=(('a', 2), ('a', 3), ('b', 1), ('b', 2)), cells8=[('a', 1), ('a', 2), ('a', 3), ('a', 4), ('b', 1), ('b', 2), ('a', 1), ('b', 4)]),   # 궁중 무희(단검 · 가슴 M) · 열한째 묶음(API) 새 단검 인형 찌르기(stab)
-    'gaennae': dict(strip='gen-gaennae', atk='stab', atk8=True, act=True, legacy=(('a', 2), ('a', 3), ('b', 1), ('b', 2)), cells8=[('a', 2), ('a', 2), ('a', 3), ('a', 4), ('b', 1), ('b', 2), ('a', 2), ('b', 4)]),   # 미추홀 갠내(단검 · 가슴 L) · 열한째 묶음(API) 새 단검 인형 찌르기(stab)
-    'dokmudeom': dict(strip='gen-dokmudeom', atk='stab', atk8=True, act=True, legacy=(('a', 2), ('a', 3), ('b', 1), ('b', 2)), cells8=[('a', 1), ('a', 2), ('a', 3), ('a', 4), ('b', 1), ('b', 2), ('a', 1), ('b', 4)]),   # 발라 독무덤(단검 · 가슴 M) · 열한째 묶음(API) 새 단검 인형 찌르기(stab)
-    'cheopja': dict(strip='gen-base-w-14-feast-spy', atk='stab', atk8=True, act=True, legacy=(('a', 2), ('a', 3), ('b', 1), ('b', 2)), cells8=[('a', 1), ('a', 2), ('a', 3), ('a', 4), ('b', 1), ('b', 2), ('a', 1), ('b', 4)]),   # 연회 첩자(단검 · 가슴 M) · 열한째 묶음(API) 새 단검 인형 찌르기(stab)
+    'gaennae': dict(hit=True, strip='gen-gaennae', atk='stab', atk8=True, act=True, legacy=(('a', 2), ('a', 3), ('b', 1), ('b', 2)), cells8=[('a', 2), ('a', 2), ('a', 3), ('a', 4), ('b', 1), ('b', 2), ('a', 2), ('b', 4)]),   # 미추홀 갠내(단검 · 가슴 L) · 열한째 묶음(API) 새 단검 인형 찌르기(stab)
+    'dokmudeom': dict(hit=True, strip='gen-dokmudeom', atk='stab', atk8=True, act=True, legacy=(('a', 2), ('a', 3), ('b', 1), ('b', 2)), cells8=[('a', 1), ('a', 2), ('a', 3), ('a', 4), ('b', 1), ('b', 2), ('a', 1), ('b', 4)]),   # 발라 독무덤(단검 · 가슴 M) · 열한째 묶음(API) 새 단검 인형 찌르기(stab)
+    'cheopja': dict(hit=True, strip='gen-base-w-14-feast-spy', atk='stab', atk8=True, act=True, legacy=(('a', 2), ('a', 3), ('b', 1), ('b', 2)), cells8=[('a', 1), ('a', 2), ('a', 3), ('a', 4), ('b', 1), ('b', 2), ('a', 1), ('b', 4)]),   # 연회 첩자(단검 · 가슴 M) · 열한째 묶음(API) 새 단검 인형 찌르기(stab)
     'byeol': dict(hit=True, strip='gen-byeol', atk='slash', atk8=True, act=True, legacy=(('a', 1), ('a', 3), ('b', 2), ('b', 4))),   # 벽진 별(한 손 칼 · 가슴 M · 달군 칼날은 불빛 없이) · 11-24 G4(내려베기 a)만 받음 · G5(b) 거절 → 보류
     'maru': dict(hit=True, strip='gen-base-w-46-geonma-maru', atk='thrust', src='thrust2', actw=264, refoot=True, atk8=True, act=True, legacy=(('a', 2), ('a', 3), ('b', 3), ('b', 4)), cells8=[('a', 1), ('a', 2), ('a', 3), ('a', 4), ('a', 4), ('a', 4), ('b', 3), ('b', 4)]),   # 건마 마루(짧은 창 · 가슴 M) · 여섯째 묶음 · refoot: 찌르기 b 가 인형보다 넓게 뻗어 통째 겹침이 -42px 밀려 b3·b4 의 발을 잘못 잡았다(bake-scene attack4)
     'mudeung': dict(hit=True, strip='gen-base-w-48-mujin-mudeung', atk='thrust', src='thrust2', actw=264, refoot=True, atk8=True, act=True, legacy=(('a', 2), ('a', 3), ('b', 3), ('a', 1)), cells8=[('a', 1), ('a', 2), ('a', 3), ('a', 4), ('a', 4), ('a', 4), ('a', 3), ('a', 1)]),   # 무진 무등(깃털 단 창 · 우람한 뼈대 · 나이 든 얼굴) · 여섯째 묶음 · 찌르기 b 칸4 가 서기보다 9% 크게 그려져(키 150 · 다시 그리기 한 번 씀) 끝 칸을 a1 로(뱃사공과 같은 길)

diff --git a/docs/realm/production/CLAUDE-HANDOFF-20261124.md b/docs/realm/production/CLAUDE-HANDOFF-20261124.md
@@ -240,7 +240,7 @@
 - 못 본 것: 게임 화면(canvas) · 걷기 다리 교대(물범 · 달래 · 누리 · 물새도 중간 확신) · 확대 6배 전수 · Claude API 검수(안 돌림).
 - 쓴 돈: 그림 29장(서기 4 · 동작 15 · 찌르기 b 4 · 맞음 4 · 다시 2) · 입력 72,046 · 출력 150,072 토큰(`tools/out/api-ledger.tsv`) · 거절 1장 장부에 안 남음. 시간: 서기부터 설치까지 넷 함께 약 1시간 10분(그림 받기는 장당 1분 · 나머지는 굽기와 검수).
 
-## 열한째 묶음 (API 만 · 단검 장수 다섯 · 11-24 밤) — 소리 · 궁중 무희 게임에 들어감 · 갠내 · 독무덤 · 연회 첩자는 걷기만 Codex(K7 · K8 · K9)
+## 열한째 묶음 (API 만 · 단검 장수 다섯 · 11-24 밤) — 다섯 모두 게임에 들어감(소리 · 궁중 무희 · 갠내 · 독무덤 · 연회 첩자)
 - 대상: 소리(sori · w-11 · 등에 활) · 궁중 무희(gungmu = base-w-12-court-dancer · w-12) · 갠내(gaennae · w-37 · 가슴 L) · 독무덤(dokmudeom · w-74) · 연회 첩자(cheopja = base-w-14-feast-spy · w-14). 지금 띠 첫 칸을 3배로 키워 다섯 모두 짧은 단검임을 확인. 건너뛴 이: 비라(밧줄 올가미) · 말갈기(채찍) · 달래2(쌍단검 · 굽은 날) · 신귀간(초상에 전복 껍데기 · 띠의 금빛 날이 칼인지 애매). 새 방식 띠가 이미 있는 장수는 없었다(HEROES 에 없음).
 - 흐름: 서기 다섯 한 일감(45초) → `scene-pack.py <이름> dagger <결> e2 <M|L>`(sori prowl · gungmu sway · gaennae bouncy[L] · dokmudeom plain · cheopja proud) → 걷기·찌르기 a·개성 동작·쓰러짐 스무 장 한 일감(동시 8 · 약 3분) → 찌르기 b 다섯 → 맞음 다섯(`hit-jobs.py` · `regrid-api.py` · `bake-scene motion … hit` · `hit-scale.py`). 일감 글: `tools/out/h11/h11-stand.py` · `h11-motion.py`(걷기·찌르기 a/b·개성·쓰러짐 · `python h11-motion.py b` 가 b) · `walkredo.py`.
 - 거절 0장. 다시 받기(장마다 한 번): 걷기 넷(소리·무희·갠내·독무덤 — 위·아랫줄이 같은 다리 같아 「위줄에서 앞인 다리는 아랫줄에서 뒤」 줄을 넣어 다시 · 앞 판 `-v1`) · 소리 개성 동작(칸4 자리를 잃은 판 → 레이아웃 고정 줄 · 앞 판 `-v1`) · 소리 맞음(단검이 두 배로 길어짐 → 길이 줄 · 앞 판 `-v1`).
@@ -251,3 +251,4 @@
 - 독립 검수(sonnet · 칸 확대 포함): 단검은 모든 칸에서 하나 · 맞음 칸 2·3 의 칼이 팔·바닥 자세 탓에 길어 보임(소리는 다시 받음) · 쓰러짐 전원 단정 · 같은 사람 · 출렁임 없음. 「넣어도 된다」는 다섯 모두 조건부(다리 교대).
 - 못 본 것: 게임 화면 · 걷기 다리 교대(위) · 맞음·쓰러짐 판 오른쪽 열이 검수 판에서 잘려 보였다는 보고(보드 폭 탓으로 보이나 확인 못 함 — 칸 자체는 150px 안에서 직접 봄) · 확대 6배 전수.
 - 쓴 돈: 그림 41장(서기 5 · 동작 20 · 찌르기 b 5 · 맞음 5 · 다시 6) · 입력 101,891 · 출력 213,658 토큰 · Claude 검수 5번(입력 19,469 · 출력 3,774). 시간: 서기부터 보류 판정까지 약 1시간 반.
+- **K7 · K8 · K9(Codex 걷기 다시) 결과**: 세 장수의 `STD/out-<이름>-walk8-k.png` 가 왔다. 띠 검사는 합격했으나 확대해 보니 **아랫줄(b) 윗몸이 윗줄(a)보다 뚜렷이 좁고 돌아서 있어**(갠내 · 독무덤 · 첩자 셋 모두 · Codex 도 독무덤에서 같은 걱정을 적었다) 다섯째 칸에서 윗몸이 튄다. 다리 교대도 이 판에서 확정되지 않았다(열1 위·아랫줄 다리 배치가 비슷). 그래서 **-k 판은 안 쓰고** 앞 판(API 다시 받은 걷기 · `-v2` 로 옮겨 둠)을 그대로 `out-<이름>-walk8.png` 로 두었다(윗몸은 여덟 칸 같음). 코디네이터 기준(같은 색 다리는 교대를 못 가려도 흠 아님)에 따라 세 장수도 띠 설치 · wire-hero · hit-install 까지 마쳤다. 남은 불확실: 이 셋의 같은 열 위·아랫줄 다리가 같은 배치로 보일 수 있다(게임 크기 GIF 로 직접 확인 못 함).
